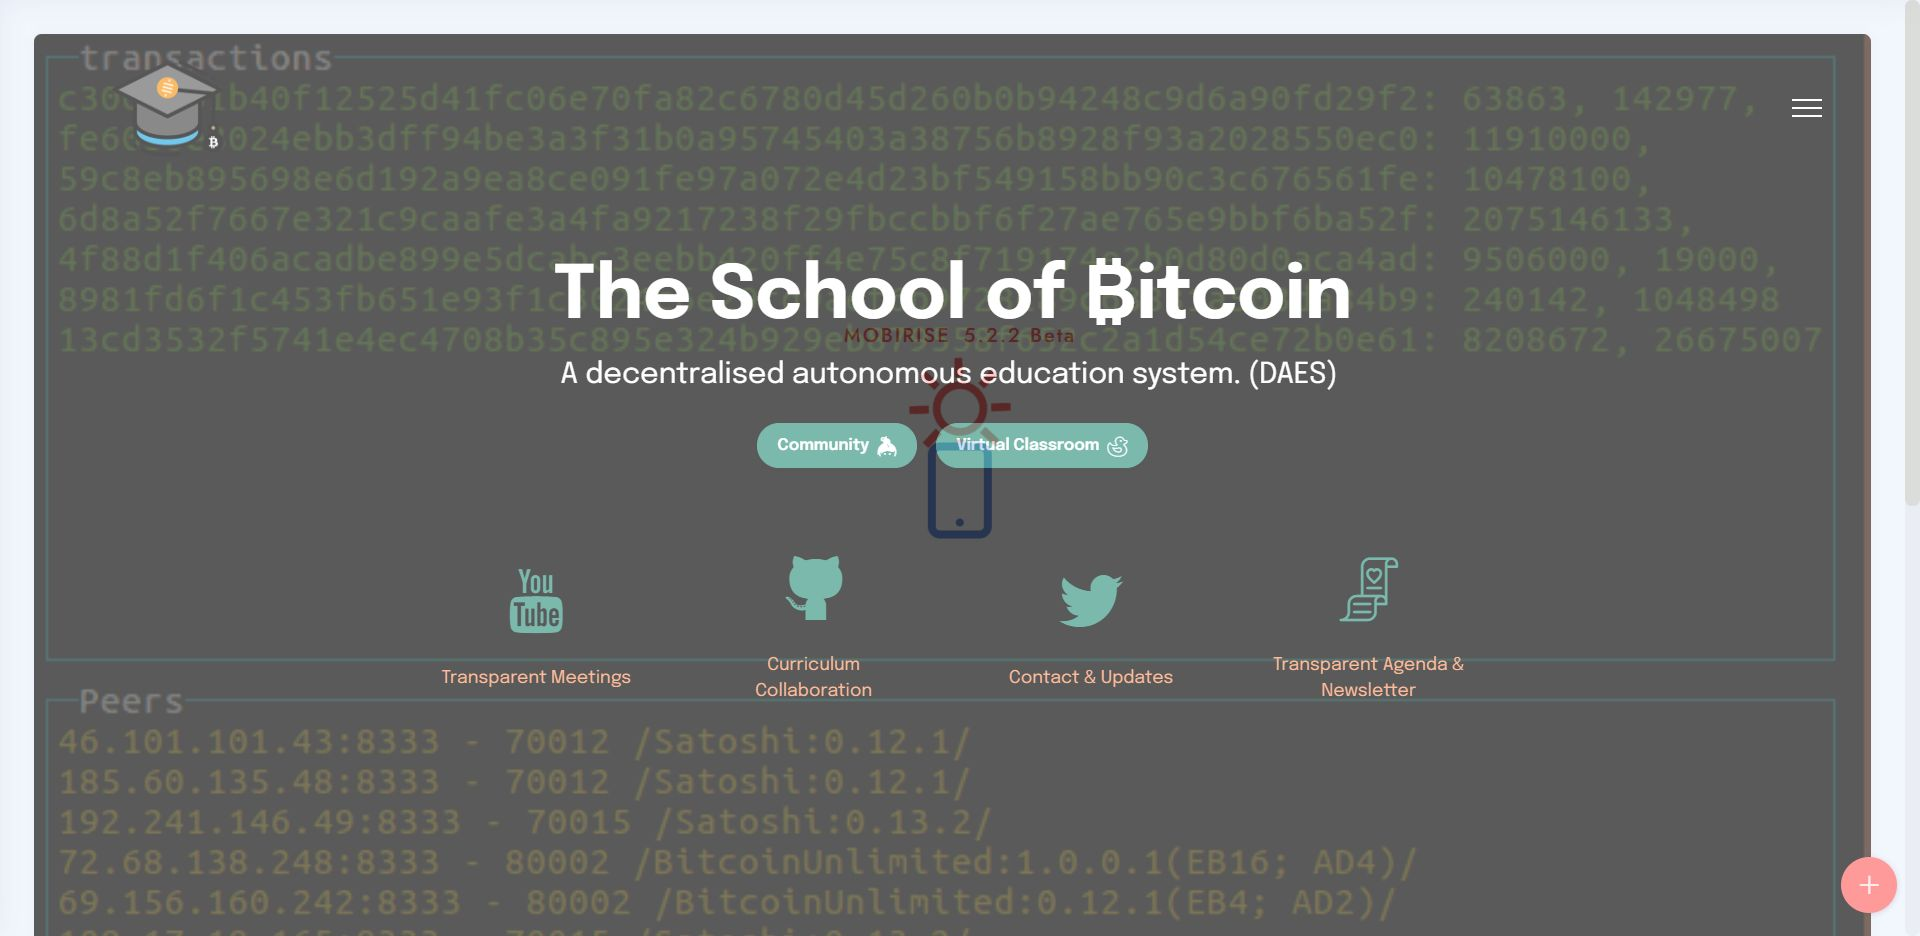
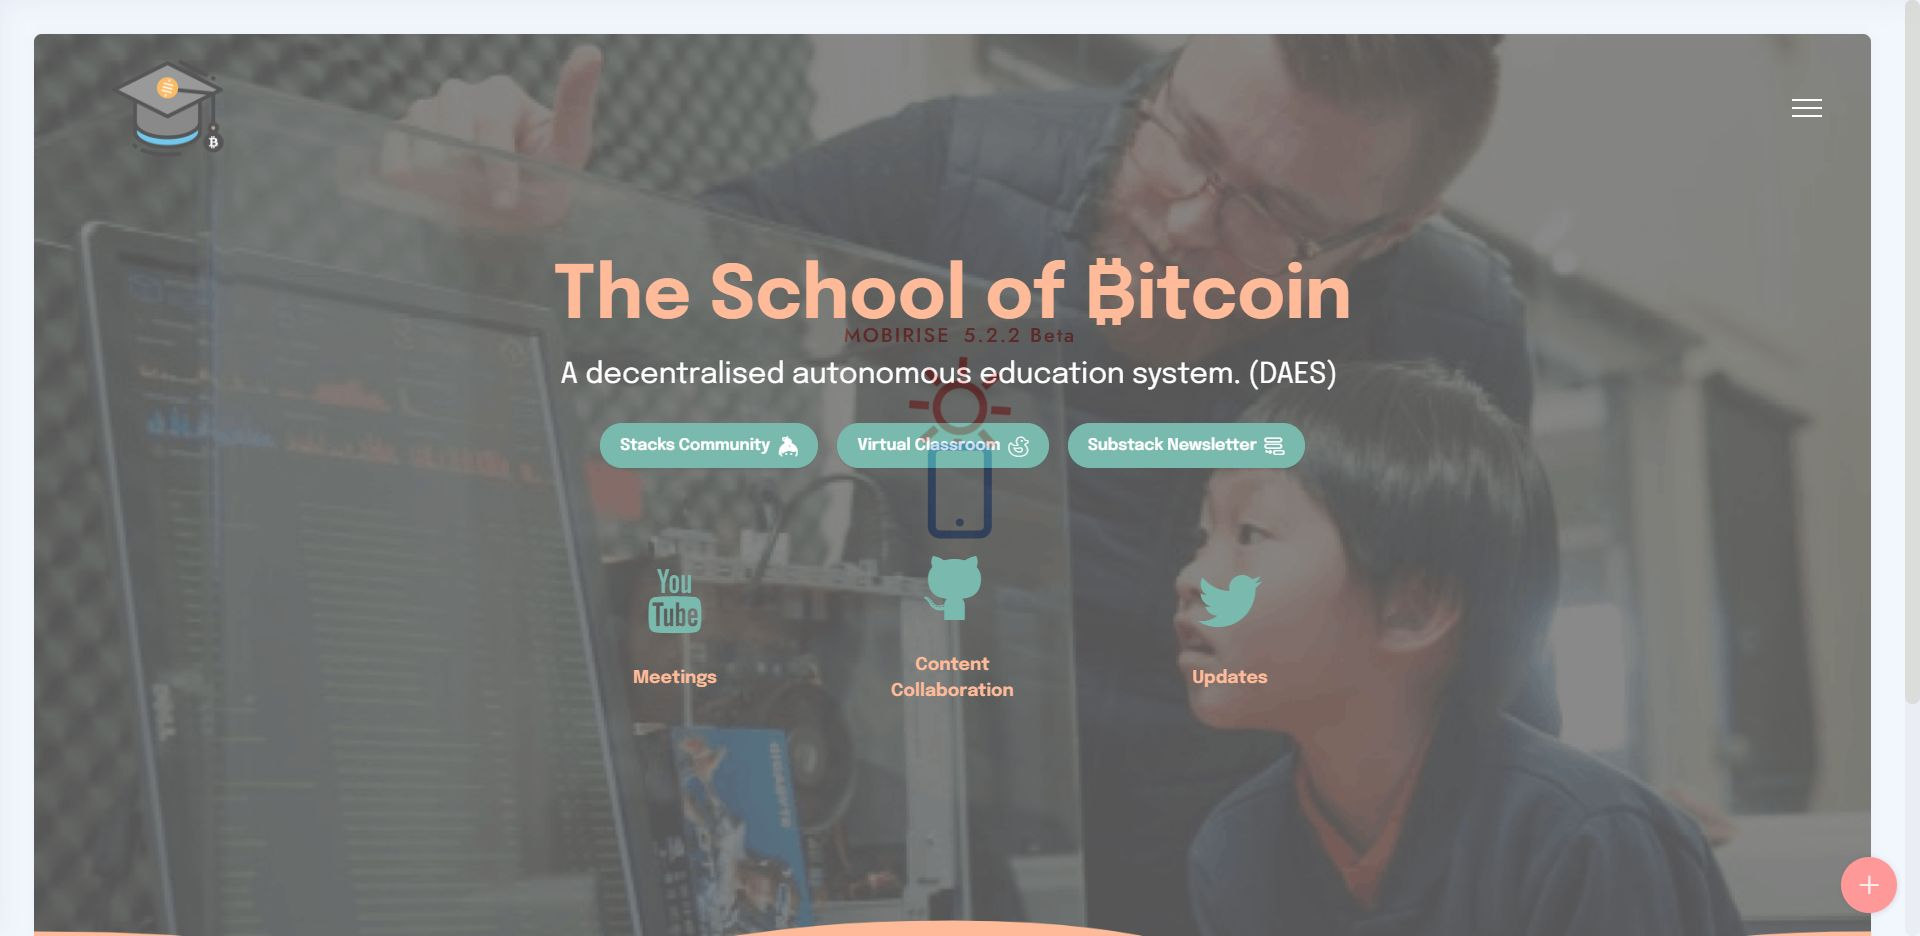
opacity
opacity

diff --git a/page1.html b/page1.html
@@ -40,8 +40,8 @@
         </div>
         <div class="row mbr-gallery mt-4">
             <div class="col-12 col-md-6 col-lg-3 item gallery-image">
-                <div class="item-wrapper" data-toggle="modal" data-target="#sWm41NlYI2-modal">
-                    <img class="w-100" src="assets/images/features1.jpg" alt="" data-slide-to="0" data-target="#lb-sWm41NlYI2">
+                <div class="item-wrapper" data-toggle="modal" data-target="#sWsnoLnOKP-modal">
+                    <img class="w-100" src="assets/images/features1.jpg" alt="" data-slide-to="0" data-target="#lb-sWsnoLnOKP">
                     <div class="icon-wrapper">
                         <span class="mobi-mbri mobi-mbri-search mbr-iconfont mbr-iconfont-btn"></span>
                     </div>
@@ -49,8 +49,8 @@
                 
             </div>
             <div class="col-12 col-md-6 col-lg-3 item gallery-image">
-                <div class="item-wrapper" data-toggle="modal" data-target="#sWm41NlYI2-modal">
-                    <img class="w-100" src="assets/images/features2.jpg" alt="" data-slide-to="1" data-target="#lb-sWm41NlYI2">
+                <div class="item-wrapper" data-toggle="modal" data-target="#sWsnoLnOKP-modal">
+                    <img class="w-100" src="assets/images/features2.jpg" alt="" data-slide-to="1" data-target="#lb-sWsnoLnOKP">
                     <div class="icon-wrapper">
                         <span class="mobi-mbri mobi-mbri-search mbr-iconfont mbr-iconfont-btn"></span>
                     </div>
@@ -58,8 +58,8 @@
                 
             </div>
             <div class="col-12 col-md-6 col-lg-3 item gallery-image">
-                <div class="item-wrapper" data-toggle="modal" data-target="#sWm41NlYI2-modal">
-                    <img class="w-100" src="assets/images/features3.jpg" alt="" data-slide-to="2" data-target="#lb-sWm41NlYI2">
+                <div class="item-wrapper" data-toggle="modal" data-target="#sWsnoLnOKP-modal">
+                    <img class="w-100" src="assets/images/features3.jpg" alt="" data-slide-to="2" data-target="#lb-sWsnoLnOKP">
                     <div class="icon-wrapper">
                         <span class="mobi-mbri mobi-mbri-search mbr-iconfont mbr-iconfont-btn"></span>
                     </div>
@@ -67,8 +67,8 @@
                 
             </div>
             <div class="col-12 col-md-6 col-lg-3 item gallery-image">
-                <div class="item-wrapper" data-toggle="modal" data-target="#sWm41NlYI2-modal">
-                    <img class="w-100" src="assets/images/features4.jpg" alt="" data-slide-to="3" data-target="#lb-sWm41NlYI2">
+                <div class="item-wrapper" data-toggle="modal" data-target="#sWsnoLnOKP-modal">
+                    <img class="w-100" src="assets/images/features4.jpg" alt="" data-slide-to="3" data-target="#lb-sWsnoLnOKP">
                     <div class="icon-wrapper">
                         <span class="mobi-mbri mobi-mbri-search mbr-iconfont mbr-iconfont-btn"></span>
                     </div>
@@ -77,11 +77,11 @@
             </div>
         </div>
 
-        <div class="modal mbr-slider" tabindex="-1" role="dialog" aria-hidden="true" id="sWm41NlYI2-modal">
+        <div class="modal mbr-slider" tabindex="-1" role="dialog" aria-hidden="true" id="sWsnoLnOKP-modal">
             <div class="modal-dialog" role="document">
                 <div class="modal-content">
                     <div class="modal-body">
-                        <div class="carousel slide" id="lb-sWm41NlYI2" data-interval="5000">
+                        <div class="carousel slide" id="lb-sWsnoLnOKP" data-interval="5000">
                             <div class="carousel-inner">
                                 <div class="carousel-item active">
                                     <img class="d-block w-100" src="assets/images/features1.jpg" alt="">
@@ -97,18 +97,18 @@
                                 </div>
                             </div>
                             <ol class="carousel-indicators">
-                                <li data-slide-to="0" class="active" data-target="#lb-sWm41NlYI2"></li>
-                                <li data-slide-to="1" data-target="#lb-sWm41NlYI2"></li>
-                                <li data-slide-to="2" data-target="#lb-sWm41NlYI2"></li>
-                                <li data-slide-to="3" data-target="#lb-sWm41NlYI2"></li>
+                                <li data-slide-to="0" class="active" data-target="#lb-sWsnoLnOKP"></li>
+                                <li data-slide-to="1" data-target="#lb-sWsnoLnOKP"></li>
+                                <li data-slide-to="2" data-target="#lb-sWsnoLnOKP"></li>
+                                <li data-slide-to="3" data-target="#lb-sWsnoLnOKP"></li>
                             </ol>
                             <a role="button" href="" class="close" data-dismiss="modal" aria-label="Close">
                             </a>
-                            <a class="carousel-control-prev carousel-control" role="button" data-slide="prev" href="#lb-sWm41NlYI2">
+                            <a class="carousel-control-prev carousel-control" role="button" data-slide="prev" href="#lb-sWsnoLnOKP">
                                 <span class="mobi-mbri mobi-mbri-arrow-prev" aria-hidden="true"></span>
                                 <span class="sr-only">Previous</span>
                             </a>
-                            <a class="carousel-control-next carousel-control" role="button" data-slide="next" href="#lb-sWm41NlYI2">
+                            <a class="carousel-control-next carousel-control" role="button" data-slide="next" href="#lb-sWsnoLnOKP">
                                 <span class="mobi-mbri mobi-mbri-arrow-next" aria-hidden="true"></span>
                                 <span class="sr-only">Next</span>
                             </a>

diff --git a/index.html b/index.html
@@ -73,7 +73,7 @@
 
     
 
-    <div class="mbr-overlay" style="opacity: 0.7; background-color: rgb(0, 0, 0);">
+    <div class="mbr-overlay" style="opacity: 0.9; background-color: rgb(0, 0, 0);">
     </div>
 
     <div class="container">
